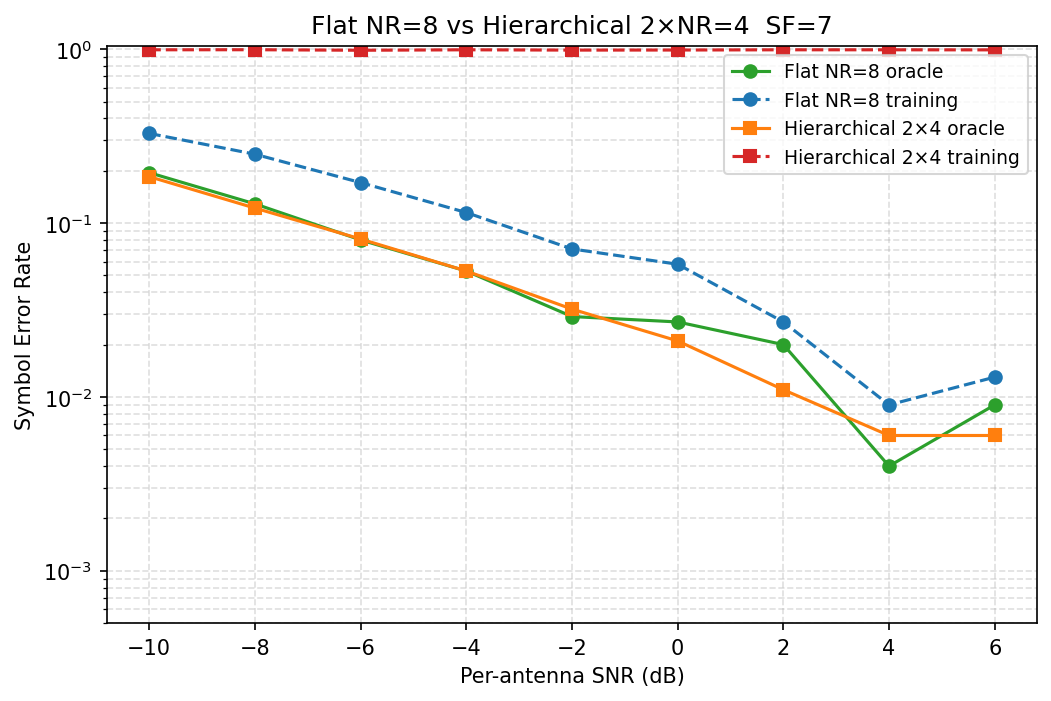
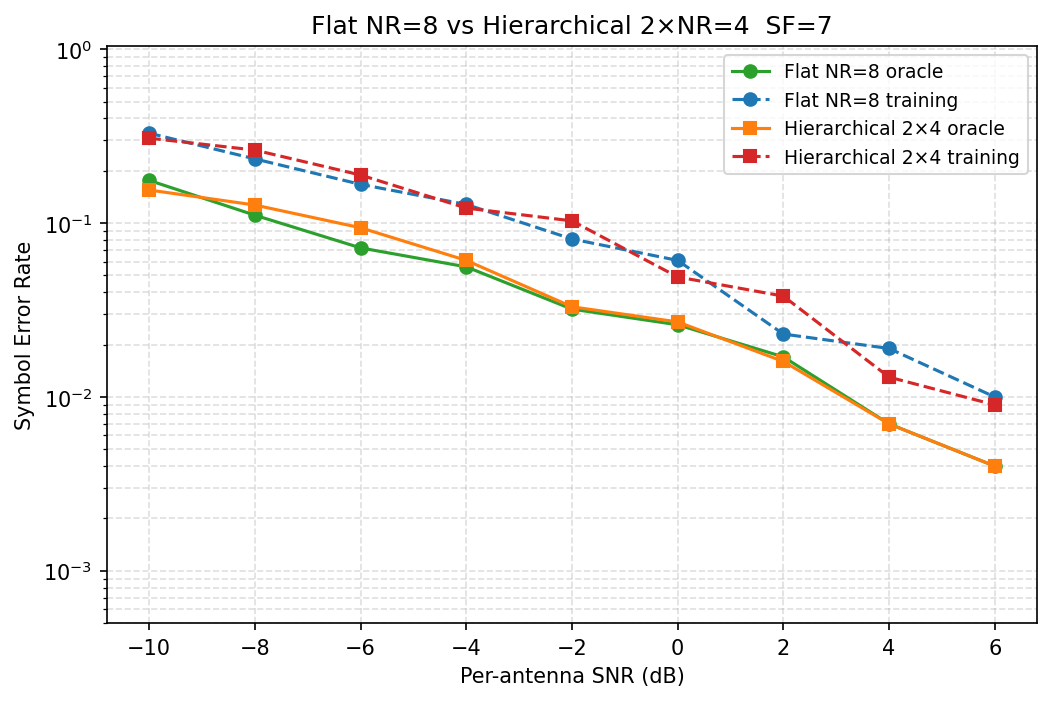
Fix hierarchical training bug: use full preamble for stage-2 training
Stage-2 training was slicing only 2*M samples from the combined preamble
and calling _train_weights with preamble_len=2. With sc_hit_syms=2, this
made sc_lock == acc_end+1 so the accumulation window was empty, Z=0,
and all packets failed (SER=1.0).

Fix: pass the full preamble_len*M combined signal to stage-2 training.
Also restructured simulate_hierarchical to use a single noise draw for
both oracle and training paths (same received signals, fair comparison).

Result: hierarchical 2×4 training now tracks flat NR=8 training with
~1-2 dB penalty from the two-stage estimation, confirming the theory.

Changed region(s): [[0.1218, 0.1797, 0.9743, 0.689], [0.1218, 0.0599, 0.9743, 0.0899], [0.9439, 0.6591, 0.9743, 0.689]]

diff --git a/lora-mimo/sim/sims/mimo_sweep.py b/lora-mimo/sim/sims/mimo_sweep.py
@@ -423,63 +423,69 @@ def sweep_doppler(SF=7, NR=4, snr_db=0.0, N_packets=500,
 # ---------------------------------------------------------------------------
 
 def simulate_hierarchical(SF: int, N0: float, NR_stage: int = 4,
-                          preamble_len: int = 8) -> tuple[int, int]:
+                          preamble_len: int = 8) -> tuple[int, int, int]:
     """
-    Two-stage hierarchical MRC: 2×NR_stage antennas → flat combine stage-1
-    outputs → decode.  All weights are oracle for a fair comparison.
+    Two-stage hierarchical MRC: 2×NR_stage antennas total.
+
+    Stage 1: each group of NR_stage branches combines independently.
+    Stage 2: the two stage-1 outputs are treated as 2 "antennas" and
+             combined with weights estimated from the stage-1 combined preambles.
+
+    Bug fix: stage-2 training now uses the full combined preamble
+    (preamble_len * M samples), not a 2-symbol slice.
     """
     NR_total = 2 * NR_stage
     M = 2 ** SF
     h = rayleigh_coefficients(NR_total)
+    h_A, h_B = h[:NR_stage], h[NR_stage:]
 
     noise = lambda NR, n: np.sqrt(N0 / 2) * (
         np.random.randn(NR, n) + 1j * np.random.randn(NR, n)
     )
 
-    chirp0 = modulate(0, M)
-    preamble_sig = np.tile(chirp0, preamble_len)
+    chirp0       = modulate(0, M)
+    preamble_sig = np.tile(chirp0, preamble_len)   # (preamble_len*M,)
+    b_tx         = np.random.randint(0, M)
+    s_pay        = modulate(b_tx, M)
 
-    b_tx = np.random.randint(0, M)
-    s_pay = modulate(b_tx, M)
+    # Stage-1 received signals (single noise draw, shared by training + oracle)
+    rx_preamble_A = h_A[:, None] * preamble_sig[None, :] + noise(NR_stage, preamble_len * M)
+    rx_preamble_B = h_B[:, None] * preamble_sig[None, :] + noise(NR_stage, preamble_len * M)
+    rx_payload_A  = h_A[:, None] * s_pay[None, :] + noise(NR_stage, M)
+    rx_payload_B  = h_B[:, None] * s_pay[None, :] + noise(NR_stage, M)
 
-    def group_combine(branch_idx, mode):
-        NR = len(branch_idx)
-        h_g = h[branch_idx]
-        rx_preamble = h_g[:, None] * preamble_sig[None, :] + noise(NR, preamble_len * M)
-        rx_payload  = h_g[:, None] * s_pay[None, :] + noise(NR, M)
-        if mode == "oracle":
-            S = float(np.sum(np.abs(h_g) ** 2))
-            w = np.conj(h_g) / S
-        else:
-            w = _train_weights(rx_preamble, M, preamble_len, mode="mrc")
-        return nonfft_combine(rx_payload, w)   # (M,) combined signal
+    # ------------------------------------------------------------------ #
+    # Training hierarchical                                               #
+    # ------------------------------------------------------------------ #
+    w_A = _train_weights(rx_preamble_A, M, preamble_len)
+    w_B = _train_weights(rx_preamble_B, M, preamble_len)
 
-    # --- Training hierarchical ---
-    y_A_train = group_combine(np.arange(NR_stage), "training")
-    y_B_train = group_combine(np.arange(NR_stage, NR_total), "training")
-    # Stage-2: treat y_A and y_B as 2 "antennas" — train on their preamble portions
-    # Re-run preamble through groups to get stage-2 training signals
-    h_A = h[:NR_stage]; h_B = h[NR_stage:]
-    preamble_A = h_A[:, None] * preamble_sig[None, :] + noise(NR_stage, preamble_len * M)
-    preamble_B = h_B[:, None] * preamble_sig[None, :] + noise(NR_stage, preamble_len * M)
-    w_A = _train_weights(preamble_A, M, preamble_len)
-    w_B = _train_weights(preamble_B, M, preamble_len)
-    y_preamble_A = nonfft_combine(preamble_A[:, :2 * M], w_A)
-    y_preamble_B = nonfft_combine(preamble_B[:, :2 * M], w_B)
-    rx2_preamble = np.stack([y_preamble_A, y_preamble_B])   # (2, 2*M)
-    w2_train = _train_weights(rx2_preamble, M, preamble_len=2)
-    rx2_payload = np.stack([y_A_train, y_B_train])
-    y_hier_train = nonfft_combine(rx2_payload, w2_train)
+    # Stage-1 combined outputs
+    y_A = nonfft_combine(rx_payload_A, w_A)       # (M,)
+    y_B = nonfft_combine(rx_payload_B, w_B)       # (M,)
+
+    # Stage-2: train on the FULL combined preambles (preamble_len*M samples)
+    y_preamble_A  = nonfft_combine(rx_preamble_A, w_A)   # (preamble_len*M,)
+    y_preamble_B  = nonfft_combine(rx_preamble_B, w_B)   # (preamble_len*M,)
+    rx2_preamble  = np.stack([y_preamble_A, y_preamble_B])  # (2, preamble_len*M)
+    w2_train      = _train_weights(rx2_preamble, M, preamble_len=preamble_len)
+    y_hier_train  = nonfft_combine(np.stack([y_A, y_B]), w2_train)
     b_rx_hier_train = demodulate(y_hier_train)
 
-    # --- Oracle hierarchical ---
-    y_A_oracle = group_combine(np.arange(NR_stage), "oracle")
-    y_B_oracle = group_combine(np.arange(NR_stage, NR_total), "oracle")
-    S_A = float(np.sum(np.abs(h[:NR_stage]) ** 2))
-    S_B = float(np.sum(np.abs(h[NR_stage:]) ** 2))
-    S2  = S_A + S_B
-    w2  = np.array([S_A / S2, S_B / S2], dtype=complex)
-    y_hier_oracle = nonfft_combine(np.stack([y_A_oracle, y_B_oracle]), w2)
+    # ------------------------------------------------------------------ #
+    # Oracle hierarchical                                                 #
+    # ------------------------------------------------------------------ #
+    S_A = float(np.sum(np.abs(h_A) ** 2))
+    S_B = float(np.sum(np.abs(h_B) ** 2))
+    w_A_or = np.conj(h_A) / S_A
+    w_B_or = np.conj(h_B) / S_B
+
+    y_A_or = nonfft_combine(rx_payload_A, w_A_or)
+    y_B_or = nonfft_combine(rx_payload_B, w_B_or)
+
+    S_tot  = S_A + S_B
+    w2_or  = np.array([S_A / S_tot, S_B / S_tot], dtype=complex)
+    y_hier_oracle   = nonfft_combine(np.stack([y_A_or, y_B_or]), w2_or)
     b_rx_hier_oracle = demodulate(y_hier_oracle)
 
     return b_tx, b_rx_hier_train, b_rx_hier_oracle